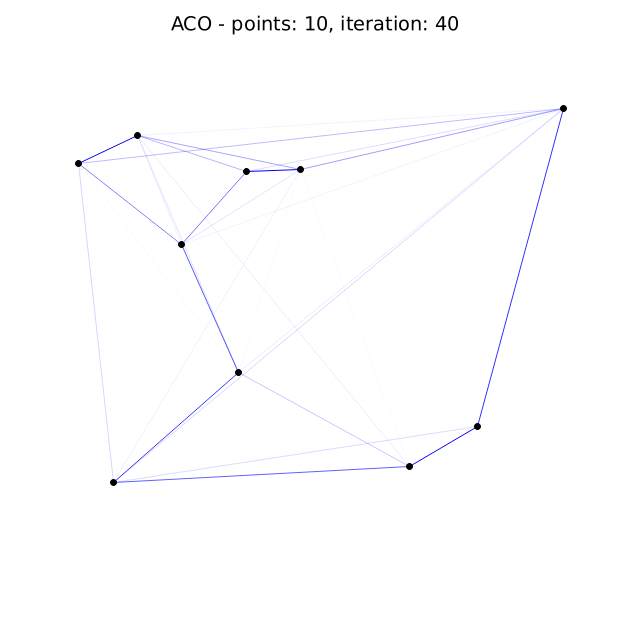
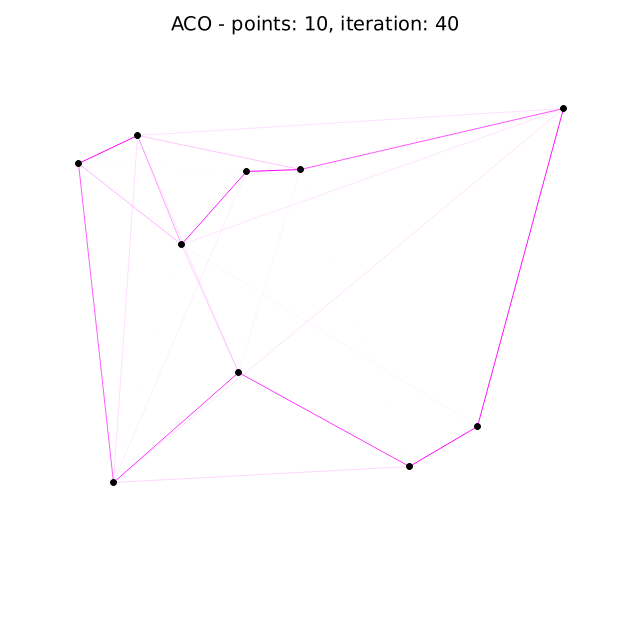
Change colors in trails matrices images

diff --git a/src/plot_trails.rs b/src/plot_trails.rs
@@ -32,7 +32,7 @@ pub fn plot_trails(
             //     weight = matrix[i][j] as f64 * 3.0;
             // }
 
-            chart.draw_series(LineSeries::new(line_coords, &BLUE.mix(weight)))?;
+            chart.draw_series(LineSeries::new(line_coords, &MAGENTA.mix(weight)))?;
         }
     }
 
@@ -46,7 +46,7 @@ pub fn plot_trails(
         best_route_coords.push(coords[best_route[0]]);
 
         // mix == weight, 10.0 max, 0.3 min viable weight
-        chart.draw_series(LineSeries::new(best_route_coords, &GREEN.mix(10.0)))?;
+        chart.draw_series(LineSeries::new(best_route_coords, &BLUE.mix(10.0)))?;
     }
 
     // Draw point series
